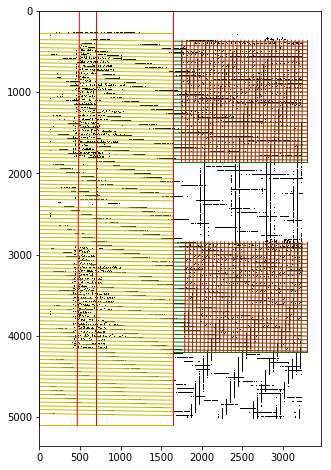
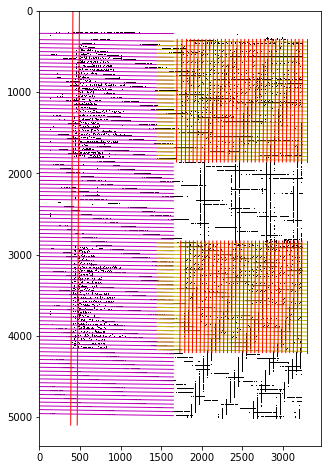
Update description

Changed region(s): [[0.1208, 0.0298, 0.9366, 0.9234]]

diff --git a/README.md b/README.md
@@ -58,13 +58,13 @@ See the [Wikipedia Page](https://en.wikipedia.org/wiki/Hough_transform) for a mo
 
 ## Heuristics outline
 
-As described in the summary the images are distorted and inconsistent. The general idea is to chop the image into workable pieces and parse that. Once we have parsed the image pieces we will reassemble the image for output. See the image below.
+As described in the summary the images are distorted and inconsistent. The general idea is to chop the image into workable pieces and parse that. Once we have parsed the image pieces we will reassemble the image for output. See below.
 
 1. Chop the image into left and right halves. The left side will contain row labels and the right hand side contains the data grids with the slashes.
-1. Find the grid lines and grid cells in the left side. (red and yellow lines) We use the *Hough Transform* to look for both vertical and horizontal grid lines. We do one pass for the horizontal lines and one for the vertical lines. Cells are the area between pairs of adjacent horizontal grid lines and pairs of vertical grid lines.
-1. Examine the 2nd cell of every row and look for writing in it. Because this particular cell is very wide we will only look at the first 200 pixels of that cell. We will say that a cell with an average pixel brightness above a threshold contains writing.
+1. Find the grid lines and grid cells in the left side. (red and magenta lines) We use the *Hough Transform* to look for both vertical and horizontal grid lines. We do one pass for the horizontal lines and one for the vertical lines. Cells are the area between pairs of adjacent horizontal grid lines and pairs of vertical grid lines.
+1. Examine the 1st cell of every row and look for writing in it. Because this particular cell is wide we will only look at the last ~80 pixels of that cell. We will use both a mean pixel brightness and the *Probabilistic Hough Transform* for this.
 1. We then group the rows with contiguous row labels into grids. In the image below there are two grids. We are assuming that each grid represents a month of data, days 1 up to 31.
-1. Find the grid lines and cells for each grid on the right side of the image. (red and green lines) The uses the *Hough Transform* mentioned above.
+1. Find the grid lines and cells for each grid on the right side of the image. (red and yellow lines) This uses the *Hough Transform* mentioned above.
 1. Look for column headers for each of the grids on the right side. We will use both a mean pixel brightness and the *Probabilistic Hough Transform* for this.
 1. Scan the grids for slashes. We only look at rows that have a row label and columns that have a column header. The scan uses the *Probabilistic Hough Transform* tuned to look for forward slashes.
 1. Output the results to the output image file and to the CSV file.
